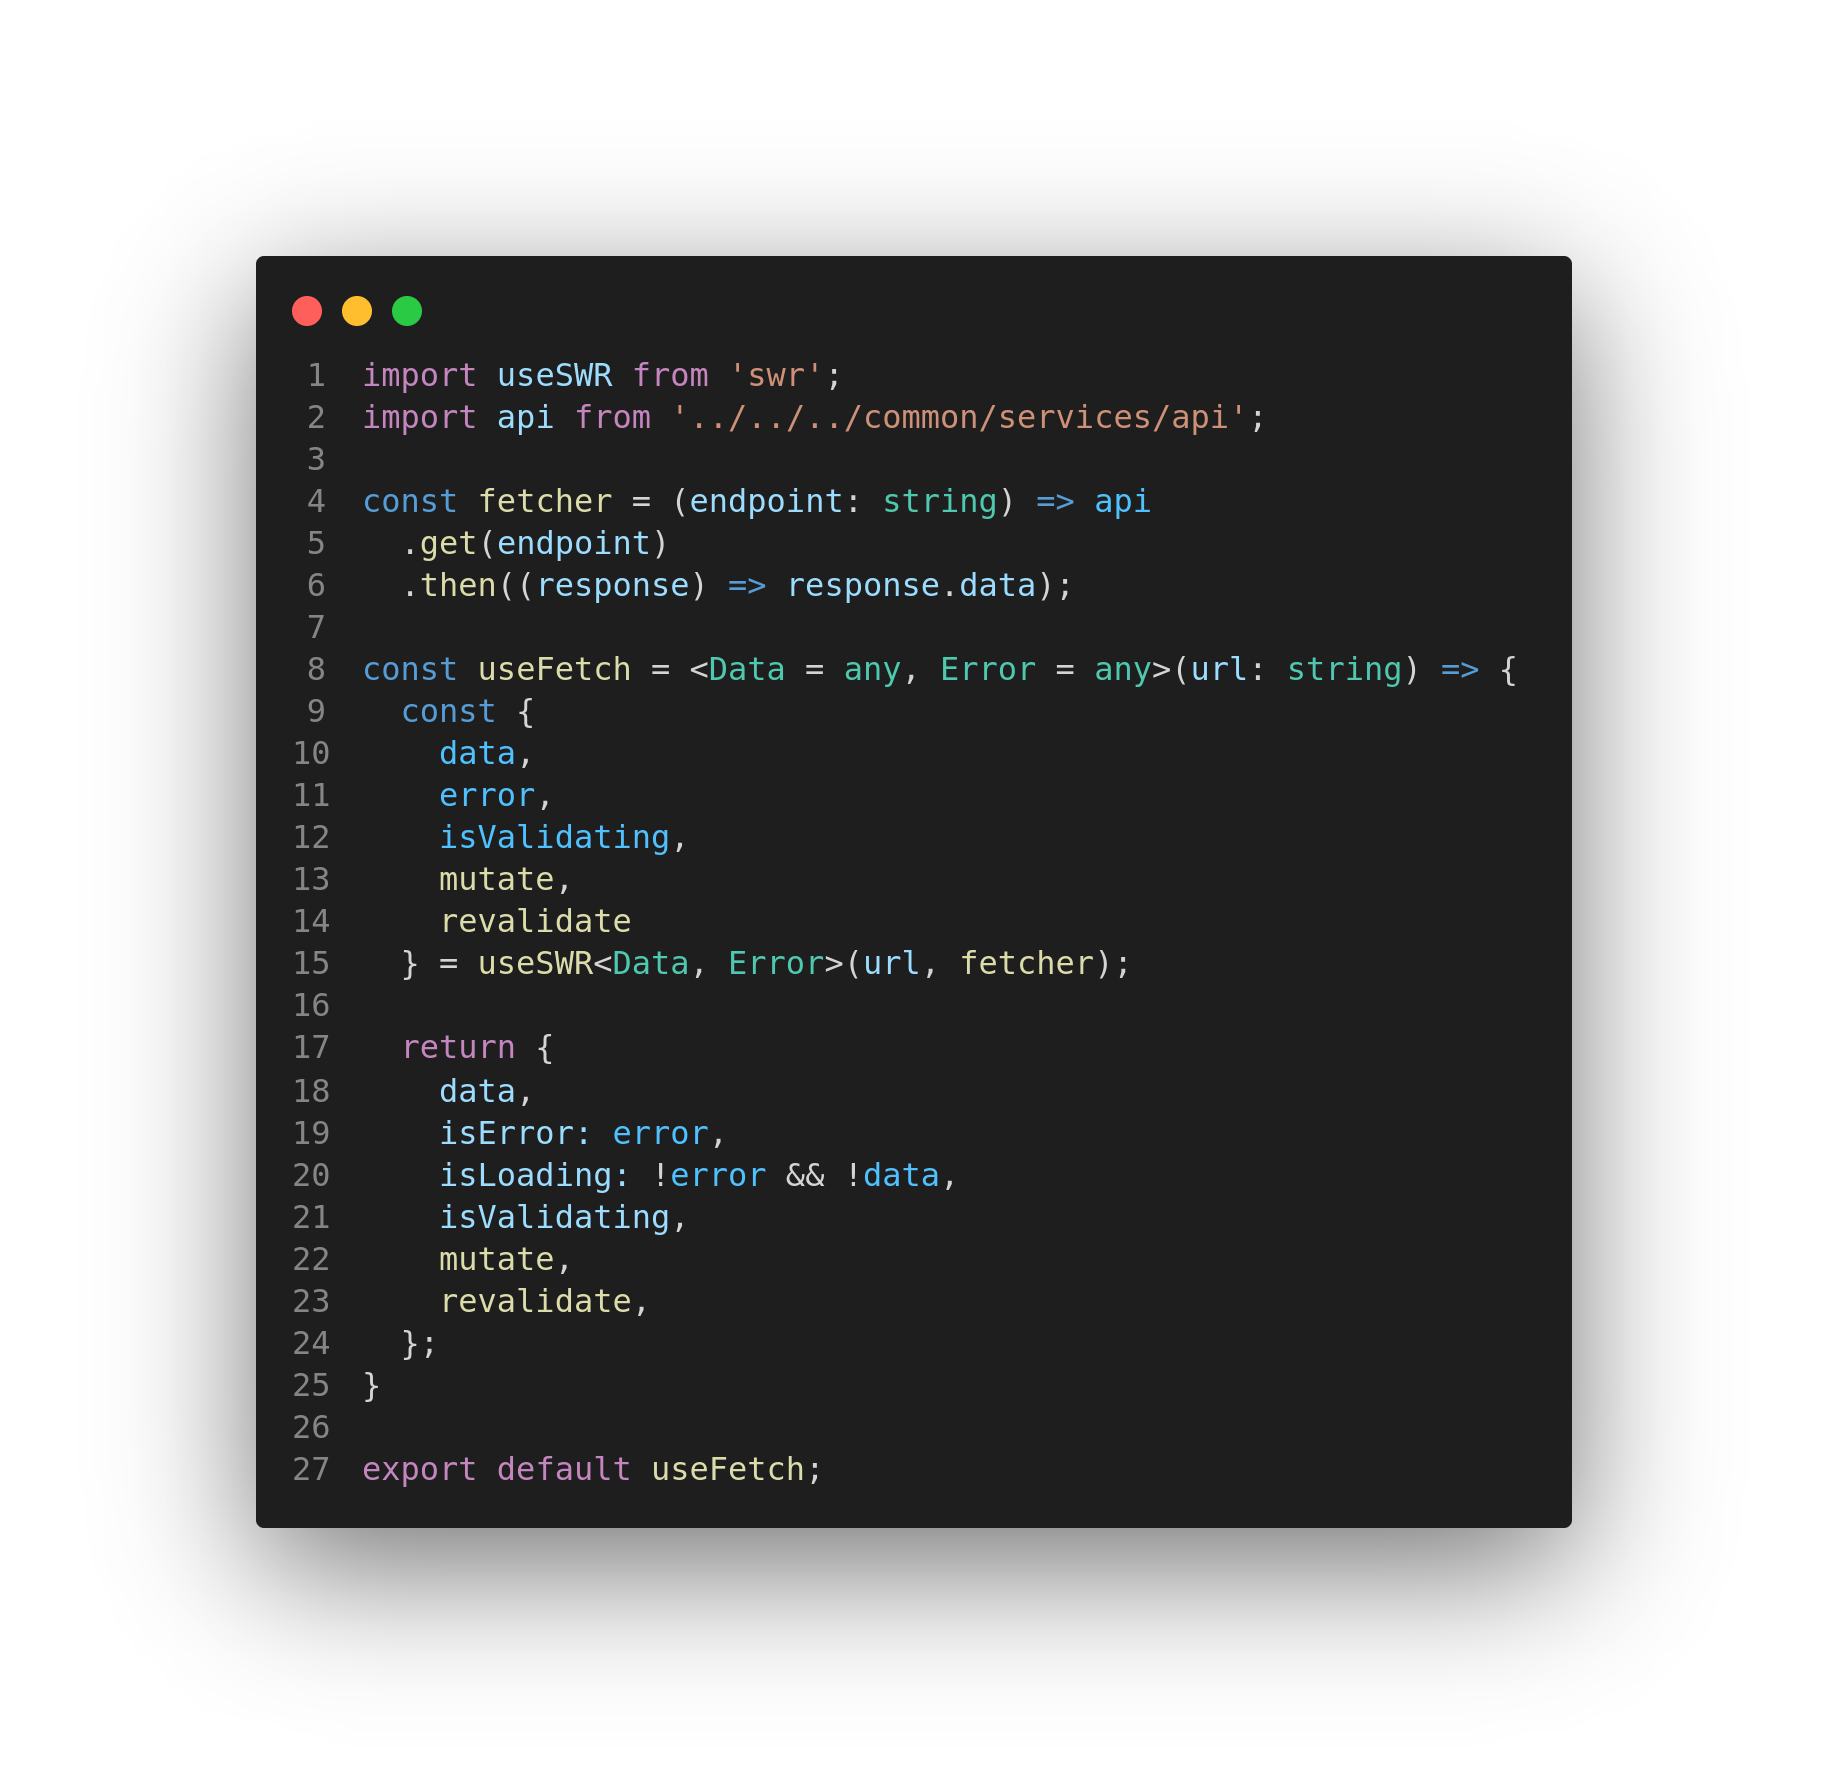
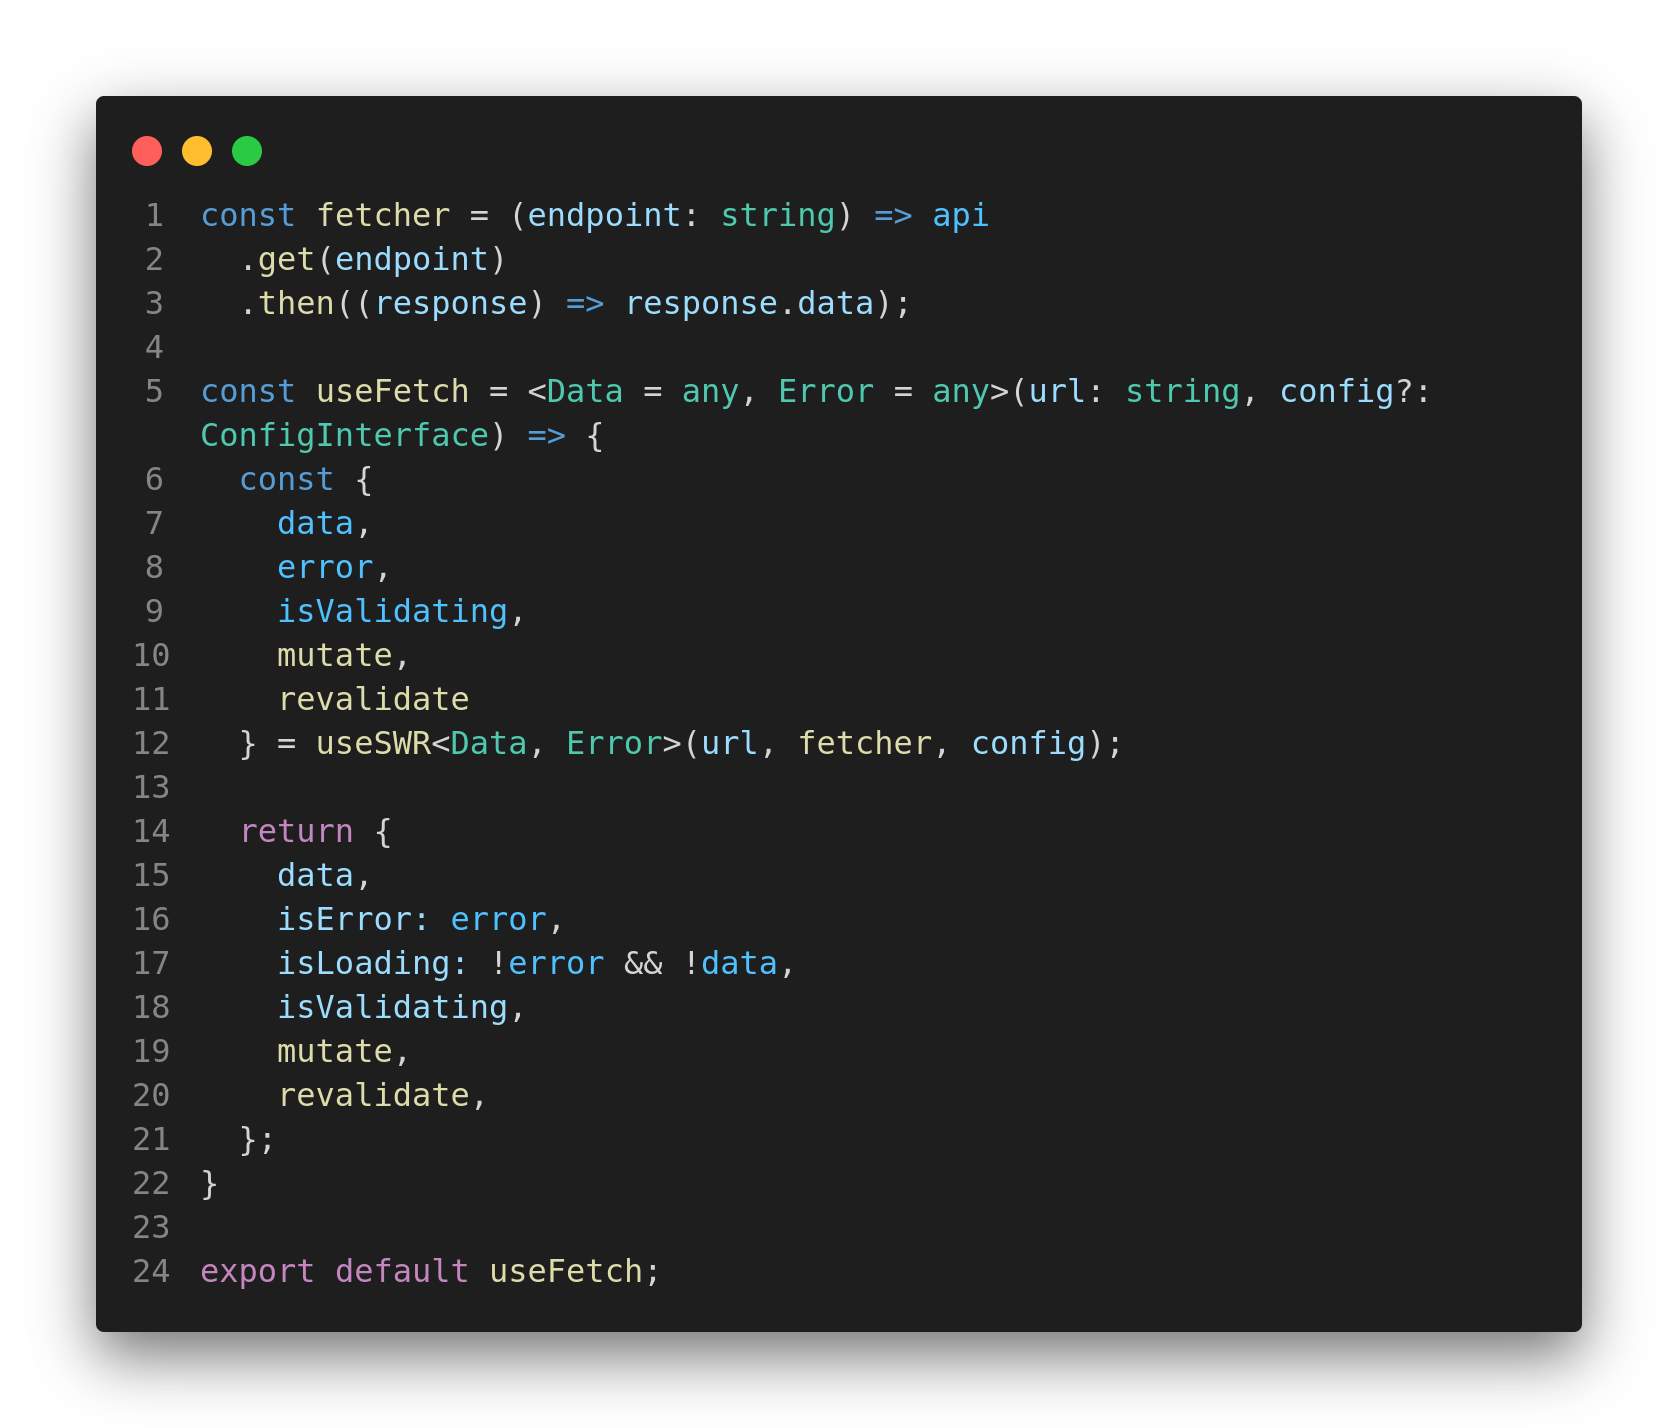
docs: removing exemple gif and add useFetch code snap

diff --git a/src/app/common/utils/hooks/useFetch.ts b/src/app/common/utils/hooks/useFetch.ts
@@ -1,18 +1,18 @@
-import useSWR from 'swr';
+import useSWR, { ConfigInterface } from 'swr';
 import api from '../../../common/services/api';
 
 const fetcher = (endpoint: string) => api
   .get(endpoint)
   .then((response) => response.data);
 
-const useFetch = <Data = any, Error = any>(url: string) => {
+const useFetch = <Data = any, Error = any>(url: string, config?: ConfigInterface) => {
   const {
     data,
     error,
     isValidating,
     mutate,
     revalidate
-  } = useSWR<Data, Error>(url, fetcher);
+  } = useSWR<Data, Error>(url, fetcher, config);
 
   return {
     data,

diff --git a/README.md b/README.md
@@ -43,21 +43,23 @@
 
 &nbsp;
 
-<p align="center">
+<div align="center">
    <a href="#memo-project">Project</a>&nbsp;&nbsp;&nbsp;|&nbsp;&nbsp;&nbsp;
    <a href="#pushpin-topics">Topics</a>&nbsp;&nbsp;&nbsp;|&nbsp;&nbsp;&nbsp;
    <a href="#man_technologist-technologies">Technologies</a>&nbsp;&nbsp;&nbsp;|&nbsp;&nbsp;&nbsp;
    <a href="#runner-getting-started">Getting Started</a>&nbsp;&nbsp;&nbsp;|&nbsp;&nbsp;&nbsp;
    <a href="#page_with_curl-license">License</a>
-</p>
-
-<h1 align="center">
+</div>
+<div align="center">
    <img
-      alt="SWR Preview"
-      title="SWR Preview"
-      src=".github/exemple.gif"
+      alt="SWR useFetch Hook"
+      title="SWR useFetch Hook"
+      width="970px"
+      src=".github/code.png"
    />
-</h1>
+</div>
+
+&nbsp;
 
 ## :memo: Project
 ... :construction: under construction :construction:
